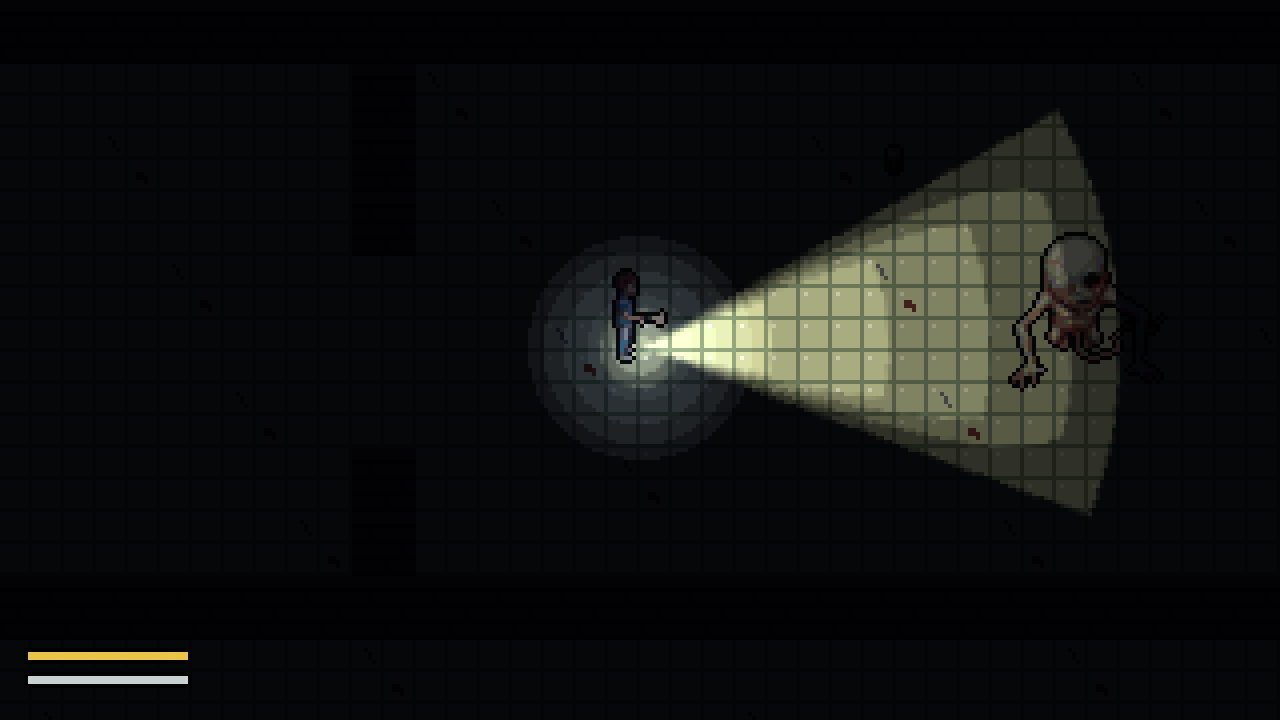
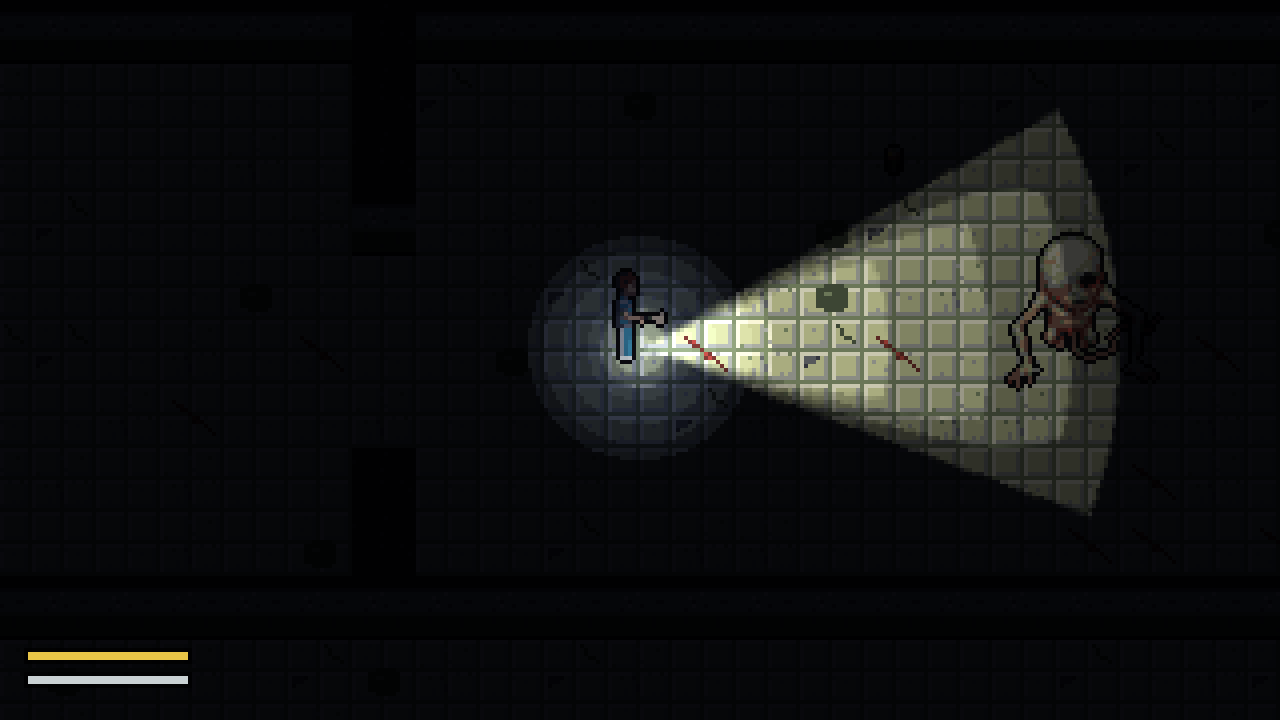
Paso 5: suelos, hormigón y paredes nuevos, sombras sin dientes de sierra
- Suelo de hospital con bisel y 5 variantes (limpio, sucio, roto, sangre, charco)
- Hormigón con 3 variantes; variante elegida por posición, igual en todos los equipos
- Paredes con cara frontal (yeso y zócalo verde) o parte de arriba según lo que hay debajo
- Sombras de pared hechas con un segmento por borde pared-suelo, unidos en tramos:
  la cara que recibe la linterna se ilumina entera y desaparecen los dientes de sierra

Changed region(s): [[0.4688, 0.2444, 0.875, 0.6111]]

diff --git a/tools/gen_placeholders.py b/tools/gen_placeholders.py
@@ -3,6 +3,7 @@
 Uso: python tools/gen_placeholders.py
 Salida: art/sprites/*.png y art/preview/sprites.png (ampliada x8).
 """
+import random
 from pathlib import Path
 
 from PIL import Image, ImageDraw
@@ -73,6 +74,79 @@ def floor_tile(stained: bool) -> Image.Image:
     if stained:
         px(img, [(10, 11), (11, 11), (11, 12), (12, 12), (10, 12), (12, 13)], "blood")
         px(img, [(3, 2), (4, 3), (4, 4), (5, 5)], "gray")
+    return img
+
+
+def _speckle(img: Image.Image, seed: int, count: int, colors: list[str], box=(0, 0, 15, 15)) -> None:
+    rng = random.Random(seed)
+    x0, y0, x1, y1 = box
+    for _ in range(count):
+        px(img, [(rng.randint(x0, x1), rng.randint(y0, y1))], rng.choice(colors))
+
+
+def hospital_floor(variant: int) -> Image.Image:
+    """Azulejos de 8x8 con bisel: borde claro arriba a la izquierda, junta oscura abajo a la derecha.
+    variant 0 limpio, 1 sucio, 2 roto, 3 sangre, 4 charco."""
+    img = canvas(16, 16)
+    rect(img, 0, 0, 15, 15, "tile")
+    for ox in (0, 8):
+        for oy in (0, 8):
+            px(img, [(ox + i, oy) for i in range(7)] + [(ox, oy + i) for i in range(7)], "white")
+            px(img, [(ox + 7, oy + i) for i in range(8)] + [(ox + i, oy + 7) for i in range(8)], "sick")
+            px(img, [(ox + 6, oy + i) for i in range(1, 7)] + [(ox + i, oy + 6) for i in range(1, 7)], "light")
+    _speckle(img, 11 + variant, 4, ["light"], (1, 1, 14, 14))
+    if variant == 1:
+        _speckle(img, 21, 14, ["light", "gray", "sick"], (1, 1, 14, 14))
+    elif variant == 2:
+        # Azulejo partido con una esquina saltada.
+        px(img, [(9, 1), (10, 2), (10, 3), (11, 4), (12, 4), (13, 5)], "moss")
+        rect(img, 1, 9, 3, 10, "gray")
+        px(img, [(1, 11), (4, 9)], "slate")
+    elif variant == 3:
+        px(img, [(4, 5), (5, 5), (6, 6), (5, 6), (7, 7), (8, 8), (9, 8), (8, 9), (10, 9), (11, 10)], "blood")
+        px(img, [(5, 5), (8, 8), (9, 9)], "red")
+        px(img, [(12, 11), (13, 12), (3, 4)], "blood")
+    elif variant == 4:
+        rect(img, 4, 8, 11, 12, "moss")
+        rect(img, 6, 7, 10, 13, "moss")
+        px(img, [(6, 9), (7, 9)], "sick")
+    return img
+
+
+def concrete(variant: int) -> Image.Image:
+    """Hormigón del sótano. variant 0 liso, 1 manchado, 2 agrietado."""
+    img = canvas(16, 16)
+    rect(img, 0, 0, 15, 15, "gray")
+    _speckle(img, 31 + variant, 18, ["slate", "light"])
+    px(img, [(i, 15) for i in range(16)] + [(15, i) for i in range(16)], "slate")
+    if variant == 1:
+        rect(img, 3, 4, 9, 9, "slate")
+        rect(img, 5, 3, 8, 10, "slate")
+        px(img, [(6, 6), (7, 7)], "night")
+    elif variant == 2:
+        px(img, [(2, 1), (3, 2), (3, 3), (4, 4), (6, 5), (7, 6), (7, 7), (8, 8), (10, 9), (11, 10), (12, 12)], "night")
+    return img
+
+
+def wall_front() -> Image.Image:
+    """Pared vista de frente (tiene suelo debajo): remate oscuro, yeso sucio y zócalo verde."""
+    img = canvas(16, 16)
+    rect(img, 0, 0, 15, 2, "night")
+    px(img, [(i, 3) for i in range(16)], "gray")
+    rect(img, 0, 4, 15, 8, "light")
+    _speckle(img, 41, 8, ["gray", "white"], (0, 4, 15, 8))
+    px(img, [(i, 9) for i in range(16)], "sick")
+    rect(img, 0, 10, 15, 14, "moss")
+    px(img, [(3, 10), (3, 11), (11, 10), (11, 11), (11, 12), (7, 13)], "slate")
+    px(img, [(i, 15) for i in range(16)], "black")
+    return img
+
+
+def wall_top() -> Image.Image:
+    """Parte de arriba de una pared gruesa o pared sin suelo debajo."""
+    img = canvas(16, 16)
+    rect(img, 0, 0, 15, 15, "night")
+    _speckle(img, 51, 6, ["slate"])
     return img
 
 
@@ -268,7 +342,7 @@ def door_tile() -> Image.Image:
 
 
 def gurney_tile() -> Image.Image:
-    img = floor_tile(False)
+    img = hospital_floor(0)
     rect(img, 3, 1, 12, 14, "gray")
     rect(img, 4, 2, 11, 13, "white")
     rect(img, 5, 2, 10, 4, "light")
@@ -277,7 +351,7 @@ def gurney_tile() -> Image.Image:
 
 
 def wheelchair_tile() -> Image.Image:
-    img = floor_tile(False)
+    img = hospital_floor(0)
     rect(img, 2, 4, 3, 12, "night")
     rect(img, 12, 4, 13, 12, "night")
     rect(img, 4, 5, 11, 11, "scrubs")
@@ -287,7 +361,7 @@ def wheelchair_tile() -> Image.Image:
 
 
 def incubator_tile() -> Image.Image:
-    img = floor_tile(False)
+    img = hospital_floor(0)
     rect(img, 1, 3, 14, 13, "gray")
     rect(img, 2, 4, 13, 12, "light")
     rect(img, 6, 6, 9, 9, "flesh")
@@ -297,7 +371,7 @@ def incubator_tile() -> Image.Image:
 
 
 def table_tile() -> Image.Image:
-    img = floor_tile(False)
+    img = hospital_floor(0)
     rect(img, 1, 2, 14, 12, "gray")
     rect(img, 2, 3, 13, 11, "light")
     px(img, [(1, 13), (14, 13)], "night")
@@ -338,8 +412,9 @@ def main() -> None:
 
     # El orden fija las coordenadas del atlas que usa scripts/level.gd.
     atlas = [
-        floor_tile(False), wall_tile(), floor_tile(True), concrete_tile(), asphalt_tile(),
+        hospital_floor(0), wall_front(), hospital_floor(3), concrete(0), asphalt_tile(),
         stairs_tile(), door_tile(), gurney_tile(), wheelchair_tile(), incubator_tile(), table_tile(),
+        wall_top(), hospital_floor(1), hospital_floor(2), concrete(1), concrete(2), hospital_floor(4),
     ]
     tiles = canvas(16 * len(atlas), 16)
     for i, tile in enumerate(atlas):
